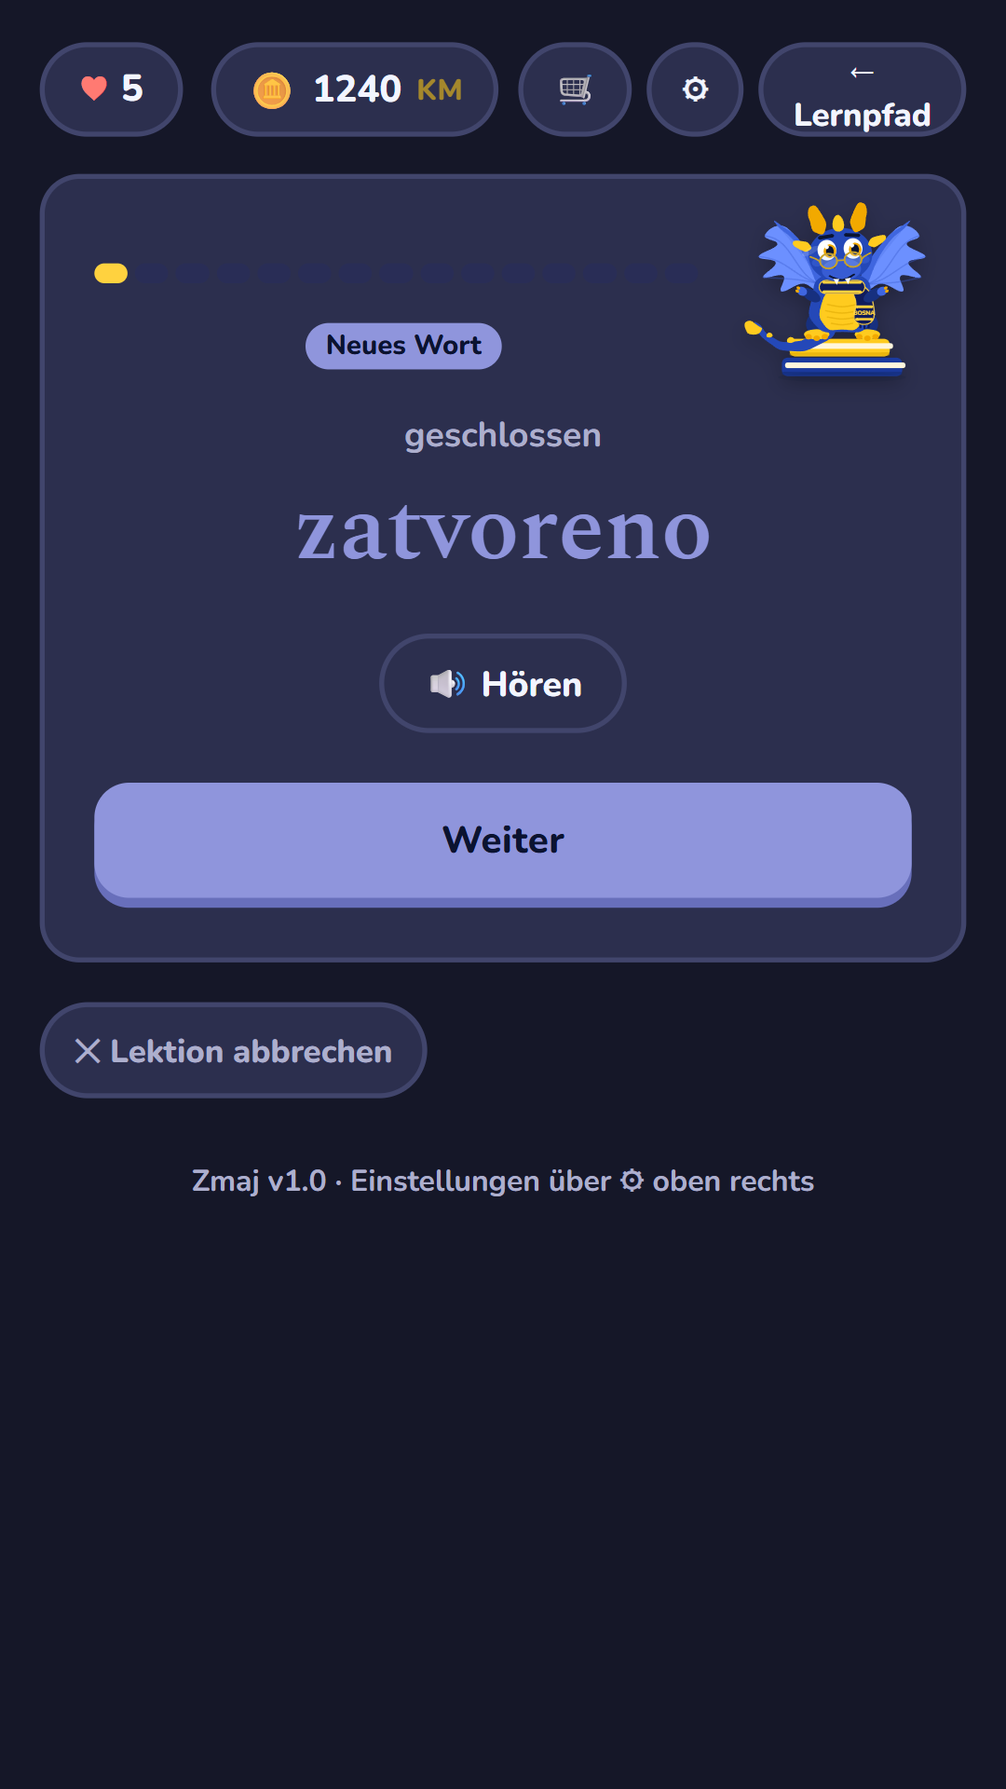
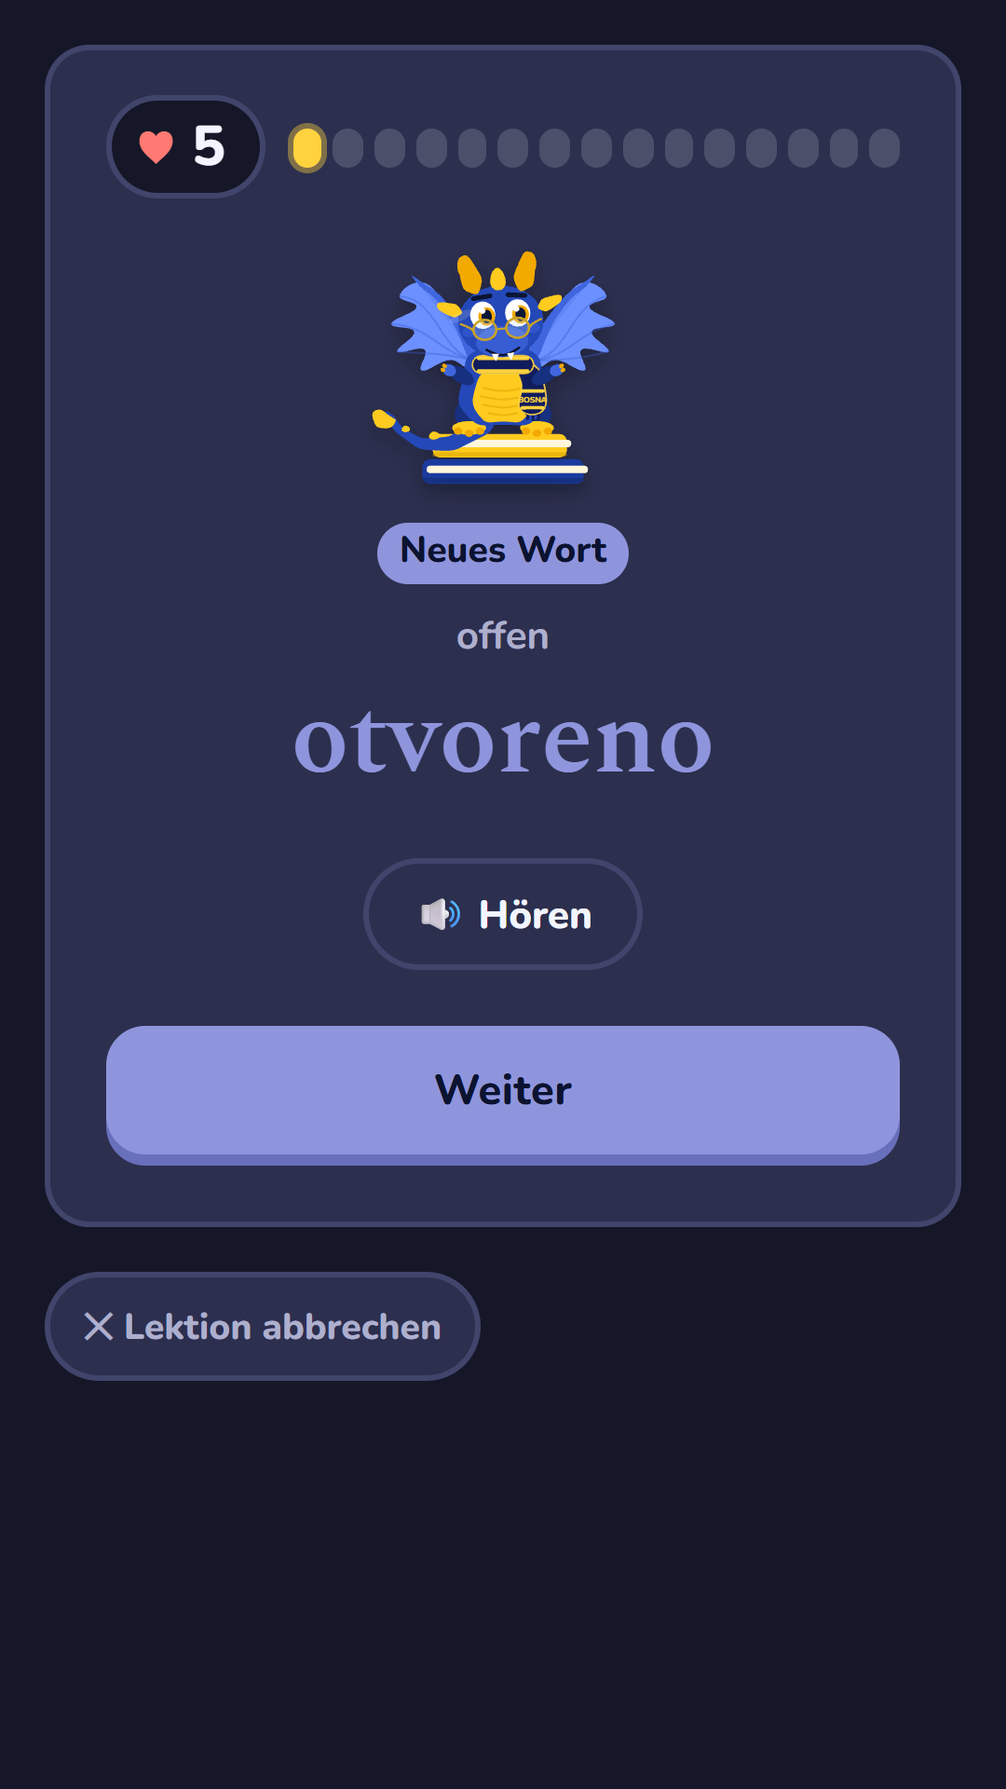
Lektion neu: Herz im Kasten, Drache in der Mitte, Kasten nach Inhalt
Ajdin am 01.10.2026 nach mehreren Vorschauen und Fassungen 77 bis 80 auf
dem S21:
- In Lektion, Level-Test und Wiederholen-Runde keine Kopfzeile mehr. Das
  Herz steht im Fragenkasten neben den Fortschrittspunkten, die groesser
  und heller sind ("viel besser sichtbar"). Der Level-Test kostet keine
  Leben und hat deshalb kein Herz.
- Der Drache steht groesser in der Mitte. Die Anweisungszeilen ("Was
  bedeutet ...") sind weg; die Schreibaufgabe sagt im Eingabefeld, in
  welcher Sprache. Die Marken "Neues Wort", "Wiederholung", "Nochmal"
  bleiben.
- Der Kasten richtet sich nach dem Inhalt ("am besten machen wir den
  kasten dynamisch"); Rueckmeldung, Loesung und Weiter stehen nach der
  Antwort zusammen darunter (.antwortfeld).
- Uebersprungene Punkte sassen tiefer: <i class="skip"> erbte margin-top
  vom Knopf .skip.
- Zwei Befunde der Gegenpruefung: "Alle Levels geschafft" waere mit der
  Anweisungszeile verschwunden (jetzt nur .kicker.aufgabe), und auf alten
  WebViews ohne :has() stand das Herz doppelt auf dem Ergebnis.

Ausserdem in index.html: audioDatei() sucht zuerst die Aufnahme mit allen
Formen, und "skup / skupa" wird beim Laden auf "skup / skupa / skupo"
umgeschrieben (UMBENANNT).

Store-Bilder neu, 360 Punkte breit wie das S21, ohne den Zurueck-Knopf, den
es nur im Browser gibt.

diff --git a/web/index.html b/web/index.html
@@ -156,6 +156,14 @@
     .hero .zmaj{width:96px; height:96px; flex:0 0 96px}
   }
   .hbtns{display:flex; gap:6px}
+  /* In Lektion, Level-Test und Wiederholen-Runde gibt es keine Kopfzeile:
+     keine Muenzen, kein Laden, kein Zahnrad. Das Herz steht im Fragenkasten
+     neben den Fortschrittspunkten (.kastenkopf), der Kasten rueckt nach
+     oben, und der Drache darf groesser sein. Ajdin am 01.10.2026: "in den
+     lektionen ist nur das herz sichtbar", "mit den fragen in den kasten".
+     Der Satz unten verweist aufs Zahnrad oben rechts - das ist dann nicht
+     zu sehen, also weg damit. Die Klasse setzt nurHerz(). */
+  body.nurHerz header, body.nurHerz footer{display:none}
   .back{
     border:2px solid var(--line); background:var(--surface); color:var(--ink); font-family:inherit; font-size:13px; font-weight:800;
     padding:7px 12px; border-radius:99px; cursor:pointer; transition:.15s;
@@ -173,11 +181,73 @@
   .zmaj.sad>img,.zmaj.sad>svg{animation:zSad 3.4s ease-in-out infinite; filter:saturate(.75)}
   .zmaj.ok>img,.zmaj.ok>svg{animation:zPop .55s cubic-bezier(.34,1.56,.64,1)}
   .zmaj.no>img,.zmaj.no>svg{animation:zShake .5s ease-in-out}
-  .zmaj.mini{width:112px; height:112px; position:absolute; right:6px; top:2px; filter:drop-shadow(0 3px 4px rgba(0,0,0,.25))}
-  #lesson .card{padding-top:34px}
-  #lesson .tbar{margin-right:110px}
-  #lesson .kicker{margin-right:100px}
-  @media (max-width:480px){ .zmaj.mini{width:84px; height:84px} #lesson .tbar{margin-right:86px} #lesson .kicker{margin-right:80px} }
+  /* Der Lektionskasten, festgelegt von Ajdin am 01.10.2026 nach drei
+     Vorschauen:
+     - oben eine Reihe: Herz, dann die Fortschrittspunkte, "viel besser
+       sichtbar" (.kastenkopf);
+     - darunter der Drache, groesser und in der Mitte;
+     - keine Anweisungszeile mehr ("Was bedeutet ...", "Was heisst auf
+       Bosnisch ..."). Was zu tun ist, sieht man an der Aufgabe selbst; nur
+       die Schreibaufgabe sagt es im Eingabefeld, sonst waere offen, in
+       welcher Sprache. Die Zeile bleibt im HTML - font-size:0 blendet den
+       Text aus, die Marken "Neues Wort", "Wiederholung", "Nochmal" (.rep)
+       bleiben sichtbar;
+     - der Kasten richtet sich nach dem Inhalt: wenig Inhalt, kleiner
+       Kasten; viel Inhalt, grosser Kasten. Ein Versuch mit immer gleicher
+       Hoehe liess bei Schreib- und Lueckenaufgaben und auf dem Ergebnis
+       eine grosse leere Flaeche - Ajdin am 01.10.2026: "am besten machen
+       wir den kasten dynamisch".
+     Rueckmeldung, Loesung und Weiter stehen nach der Antwort zusammen
+     direkt unter der Aufgabe (.antwortfeld, gebaut in weiterBeiTipp).
+     Gilt fuer Lektion, Wiederholen-Runde (beide #lesson) und Level-Test. */
+  .zmaj.mini{width:120px; height:120px; margin:2px auto 6px; filter:drop-shadow(0 3px 4px rgba(0,0,0,.25))}
+  #lesson .card, #test .card{padding-top:16px}
+  .antwortfeld{margin-top:12px}
+  .antwortfeld .feedback{margin-top:0}
+  .antwortfeld .weiterbox{margin-top:10px}
+  /* Nur die Aufgabenzeile aus kick(), nicht jede .kicker: der Level-Test
+     haengt "Alle Levels geschafft" ebenfalls als .kicker an. */
+  #lesson .kicker.aufgabe, #test .kicker.aufgabe{font-size:0; margin:0 0 8px; min-height:0}
+  #lesson .kicker.aufgabe .rep, #test .kicker.aufgabe .rep{font-size:13px}
+  #lesson .kicker.aufgabe .rep + .rep, #test .kicker.aufgabe .rep + .rep{margin-left:8px}
+  /* Nach der Antwort ist "Gerade nicht hoeren, ueberspringen" ohne Sinn und
+     kostet nur Hoehe. */
+  #lBody:has(.weiterbox) > .skip, #tBody:has(.weiterbox) > .skip{display:none}
+  #lBody > .feedback, #tBody > .feedback{margin-top:10px}
+  /* Vor der Antwort ist die Rueckmeldung leer und wandert danach ohnehin
+     ins Antwortfeld - ihr Platz in der Aufgabe waere nur Luecke. */
+  #lBody > .feedback:empty, #tBody > .feedback:empty{display:none}
+  #lesson .options, #test .options{margin-top:12px}
+  .antwortfeld .loesung{margin-top:8px; padding-top:7px; padding-bottom:7px}
+  #lesson .listen.bigplay{width:84px; height:84px; font-size:34px}
+  /* Gemessen am 01.10.2026: Ajdins S21 hat in der App 360 x 726 Punkte.
+     Mit dem grossen Drachen rutschte Weiter dort bei der Hoeraufgabe nach
+     der Antwort unter den Bildrand. */
+  @media (max-height:820px){ #lesson .zmaj.mini{width:100px; height:100px} }
+  .type-input::placeholder{font-family:var(--font-ui); font-size:17px; font-weight:700}
+  #lesson .prompt{font-size:29px}
+  #lesson .prompt.long{font-size:22px}
+  #lesson .opt{font-size:21px; padding:14px 10px}
+  #lesson .opt.long{font-size:16px}
+  .kastenkopf{display:flex; align-items:center; gap:10px; margin-bottom:10px}
+  #test .kastenkopf{margin-bottom:18px}
+  .kastenkopf .tbar{flex:1; min-width:0; margin:0; gap:4px}
+  .kastenkopf .tbar i{height:14px; background:var(--line); background:color-mix(in srgb, var(--ink) 16%, transparent)}
+  .kastenkopf .tbar i.intro{background:var(--muted); background:color-mix(in srgb, var(--ink) 42%, transparent)}
+  .kastenkopf .tbar i.skip{background:var(--muted); opacity:.6}
+  .kastenkopf .tbar i.ok{background:var(--good)}
+  .kastenkopf .tbar i.no{background:var(--bad)}
+  .kastenkopf .tbar i.cur{background:var(--accent); box-shadow:0 0 0 2px var(--accent-soft); box-shadow:0 0 0 2px color-mix(in srgb, var(--accent) 40%, transparent)}
+  .kastenherz{display:inline-flex; align-items:center; gap:6px; flex:0 0 auto; white-space:nowrap;
+    font:800 20px var(--font-ui); color:var(--bad); background:var(--bg); border:2px solid var(--line);
+    border-radius:99px; padding:2px 12px 2px 9px}
+  .kastenherz b{color:var(--ink)}
+  .kastenherz.zero{border-color:var(--bad)}
+  .kastenherz:empty{display:none}
+  /* Auf Ergebnis und "Keine Leben mehr" ist die Punktreihe leer, und die
+     Leben stehen dort ohnehin gross in der Auswertung - ohne die Reihe
+     staende das Herz doppelt da. */
+  .kastenkopf:has(> .tbar:empty){display:none}
   .card{position:relative}
   @keyframes zIdle{0%,100%{transform:translateY(0) rotate(0) scale(1)}35%{transform:translateY(-5px) rotate(-1.5deg) scale(1.02)}70%{transform:translateY(-2px) rotate(1.2deg) scale(1.01)}}
   @keyframes zCheer{0%,100%{transform:translateY(0) rotate(0) scale(1)}30%{transform:translateY(-16px) rotate(-6deg) scale(1.06)}60%{transform:translateY(-4px) rotate(5deg) scale(1.03)}}
@@ -987,7 +1057,7 @@
   .opt:disabled{cursor:default}
 
   .tbar{display:flex; gap:3px; margin-bottom:16px}
-  .tbar i{flex:1; height:8px; border-radius:99px; background:var(--primary-soft)}
+  .tbar i{flex:1; margin:0; height:8px; border-radius:99px; background:var(--primary-soft)}
   .tbar i.ok{background:var(--good)} .tbar i.no{background:var(--bad)} .tbar i.skip{background:var(--muted); opacity:.5} .tbar i.cur{background:var(--accent)} .tbar i.intro{background:var(--line)}
   .rep{display:inline-block; font-size:11px; color:var(--on-accent); background:var(--accent); border-radius:99px; padding:1px 8px; text-transform:none; letter-spacing:0}
   .rep.new{background:var(--primary-fill); color:var(--on-fill)}
@@ -1308,12 +1378,12 @@
     </div>
 
     <section id="lesson" style="display:none">
-      <div class="card"><div class="tbar" id="lBar"></div><div class="zmaj mini idle" id="zmajLesson"></div><div id="lBody"></div></div>
+      <div class="card"><div class="kastenkopf"><div class="kastenherz" id="lHerz"></div><div class="tbar" id="lBar"></div></div><div class="zmaj mini idle" id="zmajLesson"></div><div id="lBody"></div></div>
       <div class="nav"><button id="lQuit" data-t="lektion.abbrechen"></button><span></span></div>
     </section>
 
     <section id="test" style="display:none">
-      <div class="card"><div class="tbar" id="tBar"></div><div id="tBody"></div></div>
+      <div class="card"><div class="kastenkopf"><div class="tbar" id="tBar"></div></div><div id="tBody"></div></div>
       <div class="nav"><button id="tQuit" data-t="test.abbrechen"></button><span></span></div>
     </section>
   </div>
@@ -3878,6 +3948,12 @@ function renderLives(){
   if(mb){ mb.hidden = !profil; if(profil) mb.innerHTML = '🪙 <b>'+muenzen()+'</b> <span class="km">KM</span>'; }
   const bar=$('livesBar'); if(!profil){ bar.style.display='none'; return; } bar.style.display='inline-flex';
   const n = livesNow();
+  /* Das Herz im Fragenkasten. Gibt es nur in der Lektion (#lHerz); der
+     Level-Test kostet keine Leben und hat deshalb keins. */
+  document.querySelectorAll('.kastenherz').forEach(k => {
+    k.innerHTML = '♥ <b>' + (unlimited() ? '∞' : n) + '</b>';
+    k.classList.toggle('zero', n === 0 && !unlimited());
+  });
   const zeigen = livesInfoAn || n === 0;
   bar.className='livesbar'+(unlimited()?' premium':'')+(n===0?' zero':'');
   bar.innerHTML = '<button type="button" class="herz" id="livesKnopf" aria-expanded="'+zeigen+'">'
@@ -4328,6 +4404,12 @@ function spaeterSprechen(text, ms){
 /* Erst den vollen Text suchen, dann den gekuerzten Schluessel. Dadurch koennen
    "Molim" und "Molim?" eigene Aufnahmen haben, muessen aber nicht. */
 function audioDatei(text){
+  /* Mehrere Formen ("moj / moja / moje") haben seit dem 01.10.2026 eine
+     eigene Aufnahme mit allen Formen - Ajdin: "alle Formen sprechen". Ihr
+     Schluessel ist der ganze Text, siehe schluessel_alle() in ton_bauen.py.
+     Fehlt sie, gilt wie bisher die erste Form. */
+  const klein = text.trim().toLowerCase();
+  if(klein.includes(' / ')){ const alle = AUDIO.get(klein); if(alle) return alle; }
   const voll = text.split(' / ')[0].trim().toLowerCase();
   return AUDIO.get(voll) || AUDIO.get(audioKey(text)) || null;
 }
@@ -4500,6 +4582,7 @@ function showView(id){
   uhrAus();               // und keine Lernzeit: Geschichte und Lektion rufen uhrAn() selbst
   VIEWS.forEach(v=>{ $(v).style.display = v===id ? 'block' : 'none'; });
   $('kopfLeiste').style.display = '';     // wer sie nicht will, blendet sie danach aus
+  nurHerz(false);                         // Lektion, Test und Runde setzen es selbst wieder
   // Vor der Anmeldung darf das Logo größer sein - siehe CSS oben
   document.body.classList.toggle('vorAnmeldung', id === 'profileView');
   /* Hier und nicht in showHome(): so stimmt die Farbe auch in den
@@ -5131,6 +5214,11 @@ async function abmelden(){
    Alter Fortschritt wird beim ersten Öffnen umgeschrieben und geht dabei
    nicht verloren. Erkannt werden beide früheren Schreibweisen: das nackte
    Wort und die Zwischenform „level:wort“. */
+/* Woerter, bei denen sich deutsche UND bosnische Seite geaendert haben -
+   die Suche unten findet sie sonst nicht wieder. "skup / skupa" war
+   mehrdeutig (auch: Treffen, zusammen); mit "skupo" ist klar, dass es
+   teuer heisst. Ajdin am 01.10.2026. */
+const UMBENANNT = {'teuer (m/w):skup / skupa': 'teuer (m/w/s):skup / skupa / skupo'};
 function altenFortschrittUmschreiben(){
   const gueltig = new Set(), nachWort = new Map(), nachLevel = new Map();
   CATEGORIES.forEach(c => c.words.forEach(w => {
@@ -5141,7 +5229,8 @@ function altenFortschrittUmschreiben(){
   }));
   const neu = new Set(); let geaendert = false;
   known.forEach(x => {
-    if(gueltig.has(x)) neu.add(x);
+    if(UMBENANNT[x] && gueltig.has(UMBENANNT[x])){ neu.add(UMBENANNT[x]); geaendert = true; }
+    else if(gueltig.has(x)) neu.add(x);
     else if(nachLevel.has(x)){ neu.add(nachLevel.get(x)); geaendert = true; }
     else if(nachWort.has(x)){ nachWort.get(x).forEach(id => neu.add(id)); geaendert = true; }
     else if(nachWort.has(x.slice(x.lastIndexOf(':') + 1))){
@@ -5865,8 +5954,15 @@ function openLevel(i){
    levelView und laufen nicht ueber showView(). Deshalb hier eigens
    abstellen - sonst spricht das letzte Wort der Lektion (bis zu 3,7 s)
    auf der Uebersicht zu Ende. Das war der gemeldete Fall. */
+/* Lektion, Test und Wiederholen-Runde laufen in levelView, aber nicht ueber
+   showView(). Darum schalten die drei Starts den Kopf selbst um, und
+   showLevelHome() und showView() schalten ihn zurueck - alle Wege hinaus
+   (Ergebnis, Abbrechen, Zurueck-Taste, topfSeite) gehen durch eine der
+   beiden. */
+function nurHerz(an){ document.body.classList.toggle('nurHerz', !!an); if(an) renderLives(); }
 function showLevelHome(){
   stilleBitte();
+  nurHerz(false);
   $('lesson').style.display='none'; $('test').style.display='none'; $('levelHome').style.display='block';
   // Beide Aufgabenfelder leeren. renderTask() sucht seine Knöpfe mit
   // getElementById, und die ids (xCheck, xIn, xOpts …) sind in Lektion und
@@ -6049,7 +6145,7 @@ function renderTask(task, body, done, opts={}){
   const meineAufgabe = aufgabeMarke;   // gilt fuer verspaetete Erkennungs-Ergebnisse
   const pool = task.pool || curWords();
   const w = task.w;
-  const kick = (text)=> '<div class="kicker">'+text+(task.rep?' · <span class="rep">'+t('task.wiederholung',{label:esc(task.rep)})+'</span>':'')+(task.retry?' · <span class="rep">'+t('task.nochmal')+'</span>':'')+'</div>';
+  const kick = (text)=> '<div class="kicker aufgabe">'+text+(task.rep?' · <span class="rep">'+t('task.wiederholung',{label:esc(task.rep)})+'</span>':'')+(task.retry?' · <span class="rep">'+t('task.nochmal')+'</span>':'')+'</div>';
   const fb = (ok, right, extra)=>{ $$('xFb').textContent = ok?t('task.richtig'):t('task.falsch',{wort:right})+(extra?' ('+extra+')':''); $$('xFb').className='feedback '+(ok?'ok':'no'); };
   /* Nach der Antwort: das Bosnische und darunter, was es heißt. Vorher
      konnte man eine Auswahlaufgabe richtig lösen, ohne je zu erfahren, was
@@ -6066,9 +6162,9 @@ function renderTask(task, body, done, opts={}){
   const wireSkip = ()=>{ const b=$$('xSkip'); if(b) b.addEventListener('click',()=>done({ok:false, skipped:true})); };
 
   if(task.typ==='intro'){
-    body.innerHTML = '<div class="kicker"><span class="rep new">'+t('task.neues_wort')+'</span></div><div class="de">'+esc(w.de)+'</div><div class="big'+(w.bs.length>16?' long':'')+'">'+esc(w.bs)+'</div>'+
+    body.innerHTML = '<div class="kicker aufgabe"><span class="rep new">'+t('task.neues_wort')+'</span></div><div class="de">'+esc(w.de)+'</div><div class="big'+(w.bs.length>16?' long':'')+'">'+esc(w.bs)+'</div>'+
       (canListen?'<button class="listen" id="xListen">'+t('task.hoeren')+'</button>':'')+
-      '<div class="row"><button class="btn know" id="xNext">'+t('task.weiter')+'</button></div>';
+      '<div class="row unten"><button class="btn know" id="xNext">'+t('task.weiter')+'</button></div>';
     if(canListen){ $$('xListen').addEventListener('click',()=>speak(w.bs)); spaeterSprechen(w.bs, 250); }
     $$('xNext').addEventListener('click',()=>done({ok:true, intro:true})); $$('xNext').focus();
     return;
@@ -6095,7 +6191,7 @@ function renderTask(task, body, done, opts={}){
   }
   if(task.typ==='type'){
     body.innerHTML = kick(t('task.schreib'))+'<div class="prompt'+(w.de.length>18?' long':'')+'">'+esc(w.de)+'</div>'+
-      '<input class="type-input" id="xIn" autocomplete="off" autocapitalize="off" spellcheck="false" placeholder="…">'+
+      '<input class="type-input" id="xIn" autocomplete="off" autocapitalize="off" spellcheck="false" placeholder="'+esc(t('task.schreib'))+'">'+
       '<div class="feedback" id="xFb"></div><div class="row"><button class="btn know" id="xCheck">'+t('task.pruefen')+'</button></div>';
     const inp=$$('xIn'); inp.focus(); let fin=false;
     const check=()=>{
@@ -6526,7 +6622,7 @@ function lessonOutOfLives(){
   const herz = VERBRAUCH.find(w => w.id === 'herz');
   const perVideo = werbungErlaubt(true);   // das freiwillige Video, eigenes Kontingent
   const perMuenzen = muenzen() >= herz.preis && herz.geht();
-  $('lBar').innerHTML=''; $('zmajLesson').style.display='none';
+  $('lBar').innerHTML=''; $('zmajLesson').style.display='none'; $('lHerz').style.display='none';
   $('lBody').innerHTML =
     '<div class="ergebnis-titel">'+t('lektion.aus')+'</div><div class="celebrate"><div class="zmaj sad">'+zmaj('cry')+'</div></div>'+
     '<div class="result-big fail">♥ 0</div>'+
@@ -6572,7 +6668,7 @@ function lessonEnd(){
   if(questLob) setTimeout(()=>sound('quest'), 850);   // nach der Fanfare, nicht darueber
   if(benPlugin() && !benStand().gefragt) benDran = true;
   const pct=levelPct(c), nowAllowed=testAllowed(c);
-  $('lBar').innerHTML=''; $('zmajLesson').style.display='none';
+  $('lBar').innerHTML=''; $('zmajLesson').style.display='none'; $('lHerz').style.display='none';
   $('lBody').innerHTML =
     '<div class="ergebnis-titel">'+t('lektion.geschafft')+'</div><div class="celebrate"><div class="zmaj cheer">'+zmaj('cheer')+'</div></div>'+
     '<div class="result-big">'+Lx.right+' / '+scored+'</div>'+
@@ -6733,9 +6829,10 @@ function startLesson(){
   if(Lx.queue.some(a=>a.typ==='speak')) mikroVorbereiten();
   stilleBitte();   // Unteransicht, laeuft nicht ueber showView() - siehe showLevelHome
   $('levelHome').style.display='none'; $('test').style.display='none'; $('lesson').style.display='block';
+  nurHerz(true);
   $('tBody').innerHTML='';   // siehe showLevelHome: gleiche ids in beiden Feldern
   uhrNeu();
-  const zl=$('zmajLesson'); zl.style.display='block'; zl.innerHTML=zmaj('happy'); setMood(zl,'happy');
+  const zl=$('zmajLesson'); zl.style.display='block'; $('lHerz').style.display=''; zl.innerHTML=zmaj('happy'); setMood(zl,'happy');
   showLessonTask(); window.scrollTo({top:0, behavior:'smooth'});
 }
 $('btnLesson').addEventListener('click', startLesson);
@@ -6822,6 +6919,7 @@ function startTest(){
   if(!testAllowed(cur())) return;
   stilleBitte();   // Unteransicht, laeuft nicht ueber showView() - siehe showLevelHome
   buildTest(); $('levelHome').style.display='none'; $('lesson').style.display='none'; $('test').style.display='block';
+  nurHerz(true);
   $('lBody').innerHTML='';   // siehe showLevelHome: gleiche ids in beiden Feldern
   uhrNeu();
   showTestQ(); window.scrollTo({top:0, behavior:'smooth'});
@@ -7251,9 +7349,10 @@ function startTopf(){
   $('tag').textContent = t('topf.titel');
   stilleBitte();
   $('levelHome').style.display = 'none'; $('test').style.display = 'none'; $('lesson').style.display = 'block';
+  nurHerz(true);
   $('tBody').innerHTML = '';   // siehe showLevelHome: gleiche ids in beiden Feldern
   uhrNeu();
-  const zl = $('zmajLesson'); zl.style.display = 'block'; zl.innerHTML = zmaj('happy'); setMood(zl, 'happy');
+  const zl = $('zmajLesson'); zl.style.display = 'block'; $('lHerz').style.display = ''; zl.innerHTML = zmaj('happy'); setMood(zl, 'happy');
   Lx = {queue: aufgaben, i:0, results:[], right:0, total: aufgaben.length, skipped:0,
         newWords: new Set(), retried: new Set(), topf: true};
   showLessonTask();
@@ -7270,7 +7369,7 @@ function topfEnde(){
   const questLob = questZeilen();
   if(questLob) setTimeout(()=>sound('quest'), 850);
   const rest = topfAnzahl();
-  $('lBar').innerHTML = ''; $('zmajLesson').style.display = 'none';
+  $('lBar').innerHTML = ''; $('zmajLesson').style.display = 'none'; $('lHerz').style.display = 'none';
   $('lBody').innerHTML =
     '<div class="ergebnis-titel">' + t('topf.fertig') + '</div><div class="celebrate"><div class="zmaj cheer">' + zmaj('cheer') + '</div></div>' +
     '<div class="result-big">' + Lx.right + ' / ' + scored + '</div>' +
@@ -7916,8 +8015,24 @@ function weiterBeiTipp(feldId, weiter){
     const kasten = document.createElement('div');
     kasten.className = 'row weiterbox';
     kasten.innerHTML = '<button type="button" class="btn know">'+esc(t('task.weiter'))+'</button>';
-    feld.appendChild(kasten);
+    if(feldId === 'lBody' || feldId === 'tBody'){
+      /* Rueckmeldung, Loesung und Weiter zusammen unter die Aufgabe - bei
+         Schreib- und Lueckenaufgaben stand sonst der leere Pruefen-Platz
+         dazwischen. Es sind dieselben Knoten (#xFb), spaetere Aenderungen
+         daran kommen also an. */
+      const unten = document.createElement('div');
+      unten.className = 'antwortfeld';
+      feld.querySelectorAll(':scope > .feedback, :scope > .loesung').forEach(e => unten.appendChild(e));
+      unten.appendChild(kasten);
+      feld.appendChild(unten);
+    } else {
+      feld.appendChild(kasten);
+    }
     kasten.querySelector('button').addEventListener('click', einmal);
+    /* Ist eine Aufgabe laenger als der Schirm - kleines Handy, lange
+       Grammatikantworten -, laege Weiter sonst unter dem Rand. 'nearest'
+       bewegt nichts, solange er sichtbar ist. */
+    try{ kasten.scrollIntoView({block:'nearest', behavior:'smooth'}); }catch(e){}
   }
   // 900 ms statt 250: nach der Antwort läuft jetzt das Wort. Wer gleich
   // tippt, soll es wenigstens angehört haben können. Der Knopf selbst

diff --git a/store/bilder_machen/pc.py b/store/bilder_machen/pc.py
@@ -7,12 +7,12 @@
 
 Die Bildschirmgroesse kommt aus BREITE, HOEHE und DSF (Punkte je CSS-Punkt).
 Sie wird bei jedem Aufruf neu gesetzt: Chrome vergisst sie, sobald die
-Verbindung zu ist. 405 x 720 mal 8/3 ergibt genau 1080 x 1920.
+Verbindung zu ist. 360 x 640 mal 3 ergibt genau 1080 x 1920.
 """
 import asyncio, base64, json, os, sys, urllib.request
 
 TOR = "9444"
-ZEIT = 60
+ZEIT = int(os.environ.get("ZEIT", "60"))
 
 
 async def main():
@@ -32,9 +32,9 @@ async def main():
                     return a
 
         await ruf("Emulation.setDeviceMetricsOverride", {
-            "width": int(os.environ.get("BREITE", "405")),
-            "height": int(os.environ.get("HOEHE", "720")),
-            "deviceScaleFactor": float(os.environ.get("DSF", "2.6666666667")),
+            "width": int(os.environ.get("BREITE", "360")),
+            "height": int(os.environ.get("HOEHE", "640")),
+            "deviceScaleFactor": float(os.environ.get("DSF", "3")),
             "mobile": True})
         await ruf("Emulation.setTouchEmulationEnabled", {"enabled": True, "maxTouchPoints": 5})
         if was == "js":
